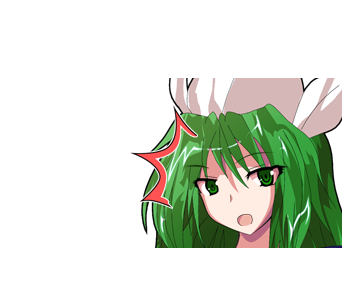
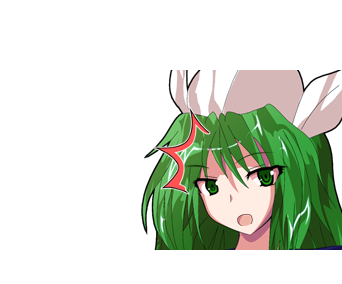
I changed a bunch of the faces, no biggie

diff --git a/mima/files.js b/mima/files.js
@@ -1,15 +1,15 @@
 {
 	"patch.js": 3351110907,
-	"th14/face/pl01/Thumbs.db": 2692458764,
+	"th14/face/pl01/Thumbs.db": 75771360,
 	"th14/face/pl01/face_pl01an.png": 3345619740,
 	"th14/face/pl01/face_pl01bs.png": 1949090528,
 	"th14/face/pl01/face_pl01bs2.png": 3189510947,
 	"th14/face/pl01/face_pl01dp.png": 255550051,
 	"th14/face/pl01/face_pl01hp.png": 1980214501,
 	"th14/face/pl01/face_pl01n2.png": 302969495,
-	"th14/face/pl01/face_pl01no.png": 556917966,
+	"th14/face/pl01/face_pl01no.png": 3338192887,
 	"th14/face/pl01/face_pl01pr.png": 2629012230,
-	"th14/face/pl01/face_pl01sp.png": 3341243628,
+	"th14/face/pl01/face_pl01sp.png": 1261545752,
 	"th14/face/pl01/face_pl01sw.png": 541003538,
 	"th14/face/pl01/title_pl01.png": 1163113243,
 	"th14/face/pl01/title_pl01b.png": 2573081024,
